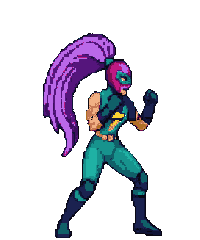
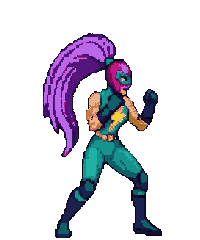
Idle: deshace el repintado de más en pecho y cuello (frames 2, 3, 6 y 18)

Changed region(s): [[0.54, 0.3792, 0.69, 0.525]]

diff --git a/preview/nueva.html b/preview/nueva.html
@@ -123,7 +123,7 @@
   const H = 1024;
   // ?v= para que el navegador no sirva el PNG viejo de esta misma ruta
   // El sprite de juego: 150 x 200, la altura nativa del ring. Se dibuja 1:1.
-  window.STAGE_FIGHTER = '../voltia/nueva/idle/00.png?v=11';
+  window.STAGE_FIGHTER = '../voltia/nueva/idle/00.png?v=12';
   // Suelo en el centro del rombo dibujado (spec.floorY es 408, el borde trasero).
   window.STAGE_FLOOR_Y = 426;
   // El archivo no se toca. El escenario lo dibuja a la escala que se elija.
@@ -269,7 +269,7 @@
     note.textContent = anim.note;
     for (const f of anim.frames) {
       const im = new Image();
-      im.src = '../voltia/' + anim.dir + '/' + f + "?v=11";
+      im.src = '../voltia/' + anim.dir + '/' + f + "?v=12";
       await im.decode();
       imgs.push(im);
     }
@@ -277,7 +277,7 @@
     applyZoom();
   }
   try {
-    const guide = await (await fetch('../voltia/guide/style.json?v=11',
+    const guide = await (await fetch('../voltia/guide/style.json?v=12',
       { cache: 'no-store' })).json();
     window.__GUIDE = guide;
     const entries = Object.entries(guide.anims || {});

diff --git a/tools/fix_gloves.py b/tools/fix_gloves.py
@@ -39,6 +39,8 @@ HAIR = {(85, 21, 124), (186, 104, 232), (60, 15, 95), (190, 25, 130)}
 SKIN = {(240, 176, 132), (196, 120, 84)}
 # Colores que nunca son legítimos sobre un brazo o un guante.
 JUNK = {(120, 16, 80), (176, 112, 36)}
+# Frames donde la mano venía abierta (piel dentro del guante), revisados a mano.
+GLOVE_FRAMES = {'09.png', '10.png', '12.png', '14.png', '16.png'}
 NAVY = {GLOVE, GLOVE_SHADOW}
 
 
@@ -221,8 +223,11 @@ def fix_dir(path):
         full = os.path.join(path, name)
         im = Image.open(full).convert('RGBA')
         junk = decontaminate(im)
-        gloves = close_glove(im)
-        if name == '09.png' and os.path.basename(path.rstrip('/')) == 'idle':
+        # El cierre de guante automático acertaba en las manos, pero en los
+        # frames 01, 02, 05 y 17 tomaba el ribete del pecho por un guante y
+        # pintaba de marino el escote. Solo se aplica donde está comprobado.
+        gloves = close_glove(im) if name in GLOVE_FRAMES else []
+        if name == '09.png' and 'idle' in path.lower():
             # la mano de la cadera venía pintada con el verde del traje
             gloves.append(('caja', glove_box(im, (80, 122, 95, 155))))
         if junk or gloves:
